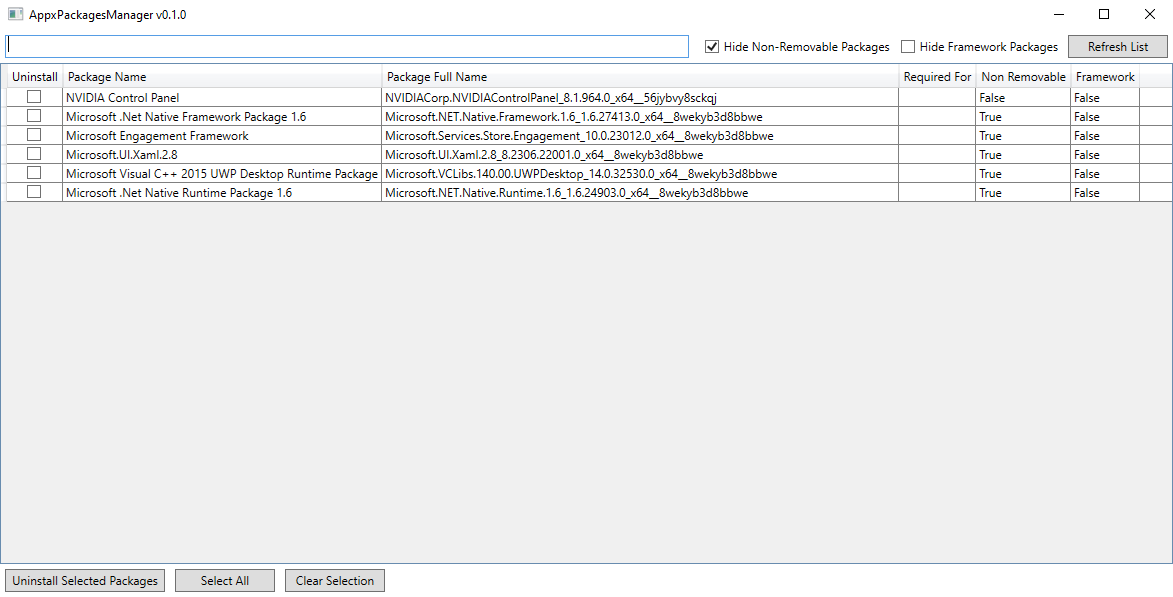
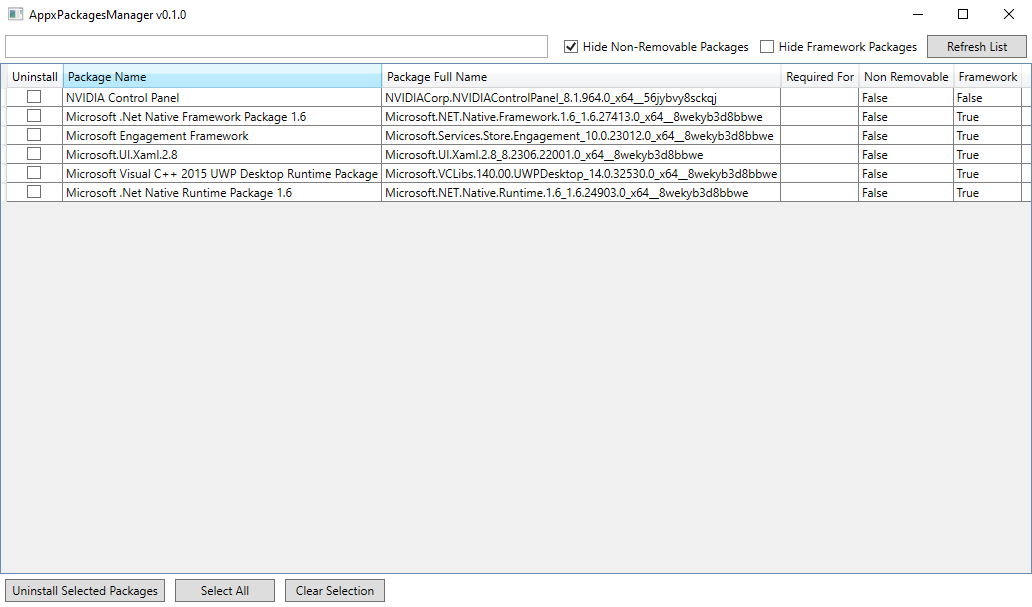
Fix bug

Changed region(s): [[0.0, 0.0, 1.0, 0.3618], [0.0, 0.9347, 1.0, 0.995], [0.0, 0.0, 0.5271, 0.0603]]

diff --git a/AppxPackagesManager/AppxPackagesManager/MainWindow/MainWindow.xaml.cs b/AppxPackagesManager/AppxPackagesManager/MainWindow/MainWindow.xaml.cs
@@ -124,8 +124,8 @@ namespace AppxPackagesManager {
                     PackageName = GetValue(package, "name", "Unknown").ToString(),
                     PackageFullName = packageFullName,
                     RequiredFor = string.Join("\n", requiredFor),
-                    NonRemovable = GetValue(package, "is_framework", "Unknown").ToString(),
-                    Framework = GetValue(package, "is_non_removable", "Unknown").ToString(),
+                    NonRemovable = GetValue(package, "is_non_removable", "Unknown").ToString(),
+                    Framework = GetValue(package, "is_framework", "Unknown").ToString(),
                 };
 
                 _packagesGridItems.Add(packagesGridItem);
